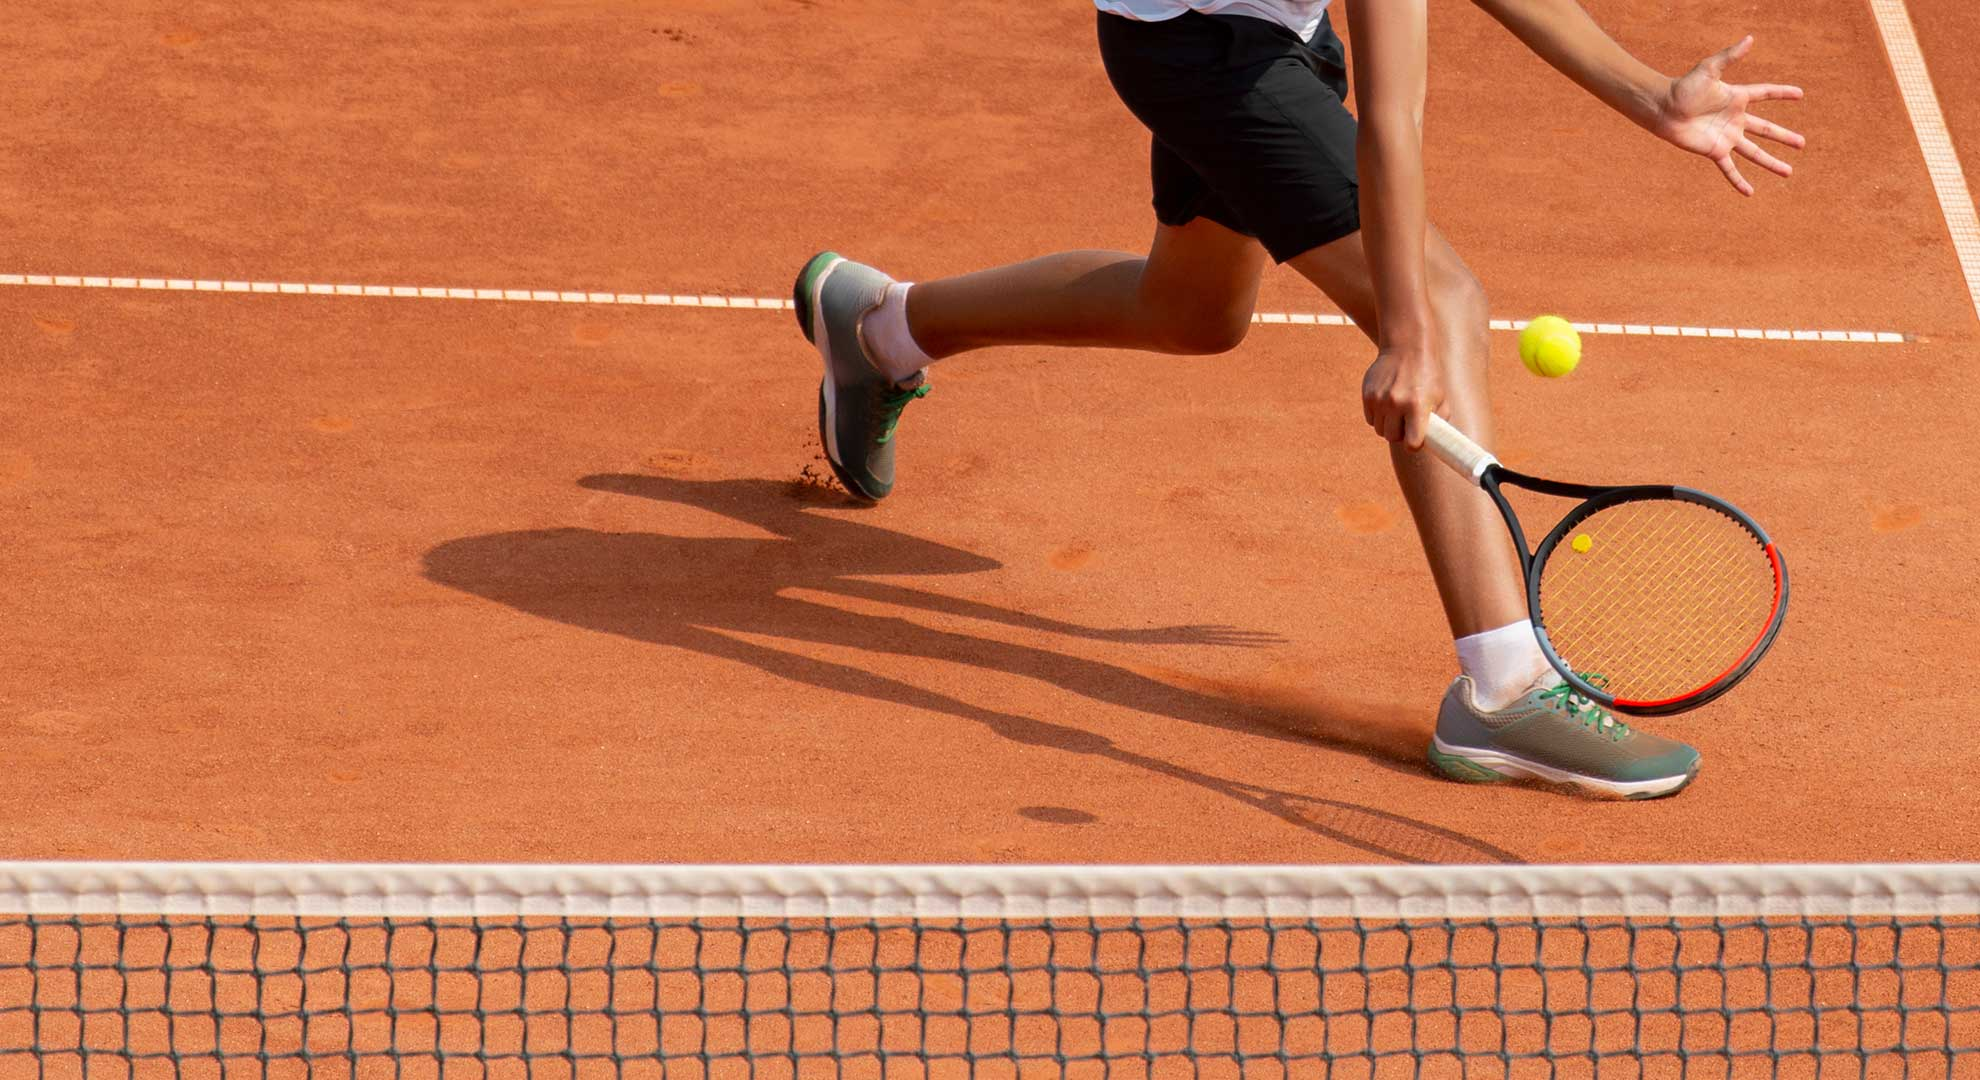
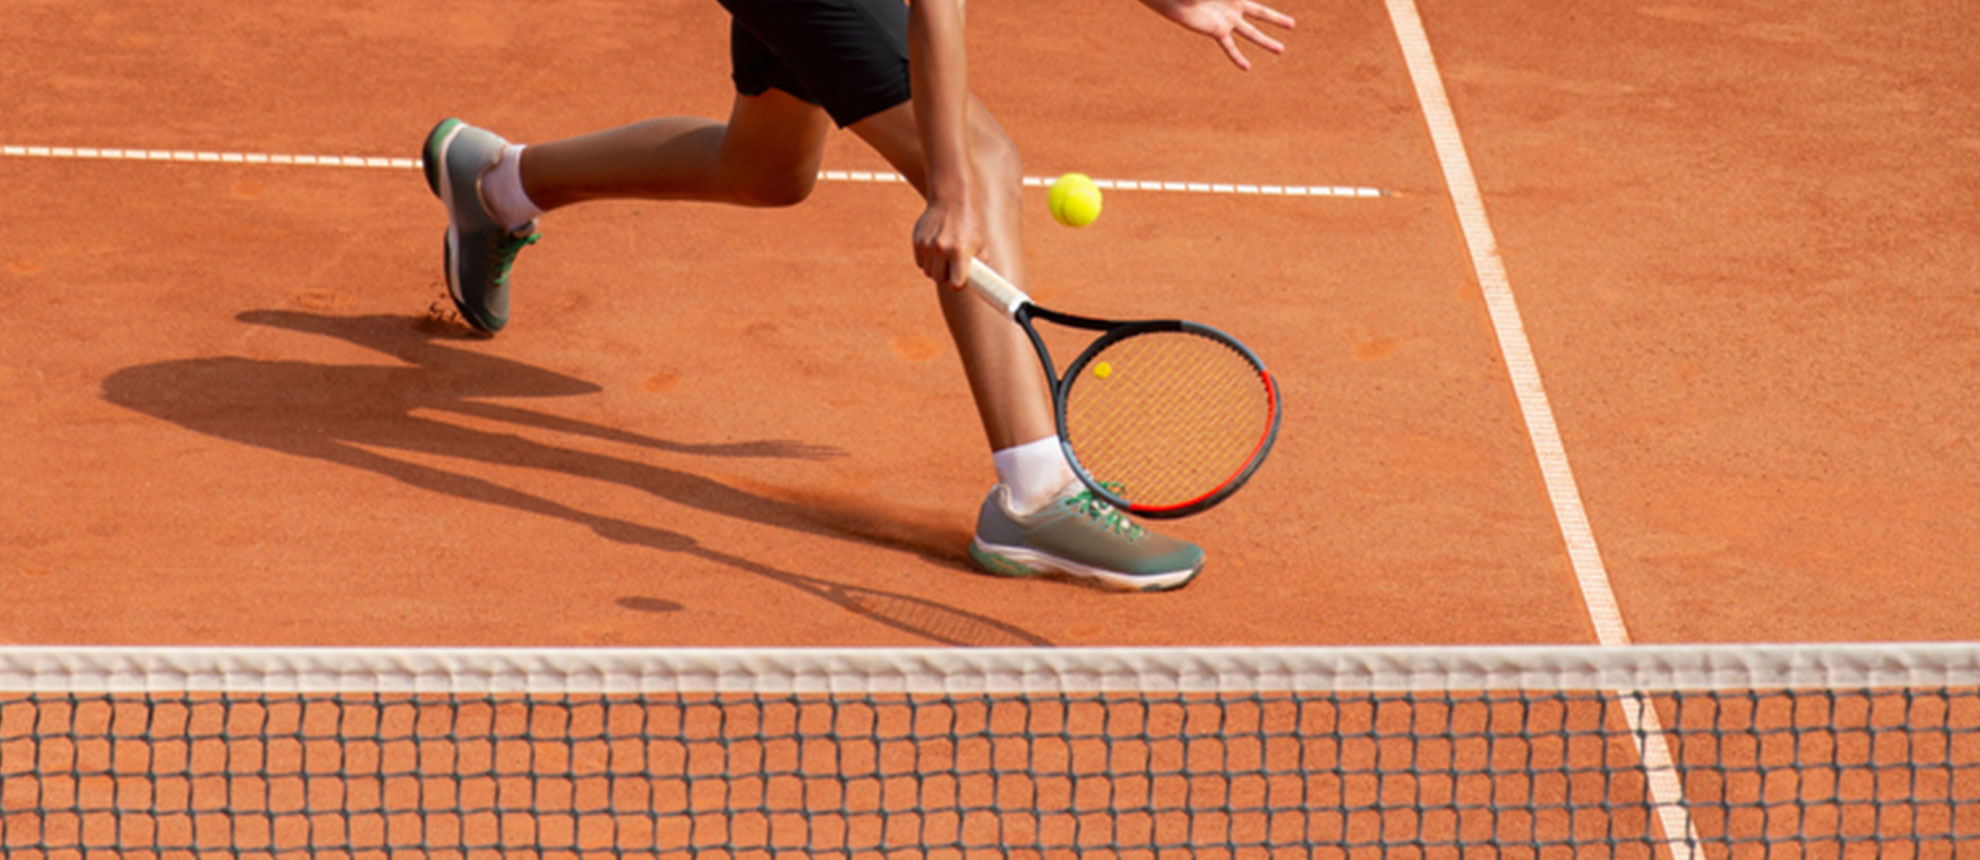
Création du bouton dans heder page Events

diff --git a/evenements.html b/evenements.html
@@ -81,7 +81,7 @@
                 <h2 class="h6">Le TCCF organise le Briston Open Cap-Ferret 2022, le premier tournoi international qui combine à la fois le jeu sur terre battue mais aussi sur terrain en dur !<span class="d-none d-sm-block">Un moment privilégié au sein du club, ponctué d'émotions, de rencontres avec des compétiteurs d'exception, d'animations et de convivialité.</span></h2>
                 </div>
 
-                <a href="./evenements.html" class="btn btn-terracotta-light mt-2">Je réserve ma place</a>
+                <button type="button" class="btn btn-outline-rose-light mt-2" data-bs-toggle="tooltip" data-bs-placement="right" title="Ce site est fictif">Je réserve ma place</button>
   
             </div>
   

diff --git a/app.js b/app.js
@@ -42,3 +42,12 @@ window.addEventListener('scroll', () => {
 })
 
 
+
+
+
+  // Tooltip bouton sur le header page Evénements
+
+  var tooltipTriggerList = [].slice.call(document.querySelectorAll('[data-bs-toggle="tooltip"]'))
+  var tooltipList = tooltipTriggerList.map(function (tooltipTriggerEl) {
+    return new bootstrap.Tooltip(tooltipTriggerEl)
+  })

diff --git a/sass/_custom.scss b/sass/_custom.scss
@@ -409,9 +409,9 @@ footer .overlay-footer {
 .header-events {
   position: relative;
   background-image: url('/ressources/header-page-evenements.jpg');
-  background-position: right;
+  background-position: center;
   width: 100%;
-  height: 80vh;
+  height: 85vh;
   overflow: hidden;
   background-repeat: no-repeat;
   z-index: 0;
